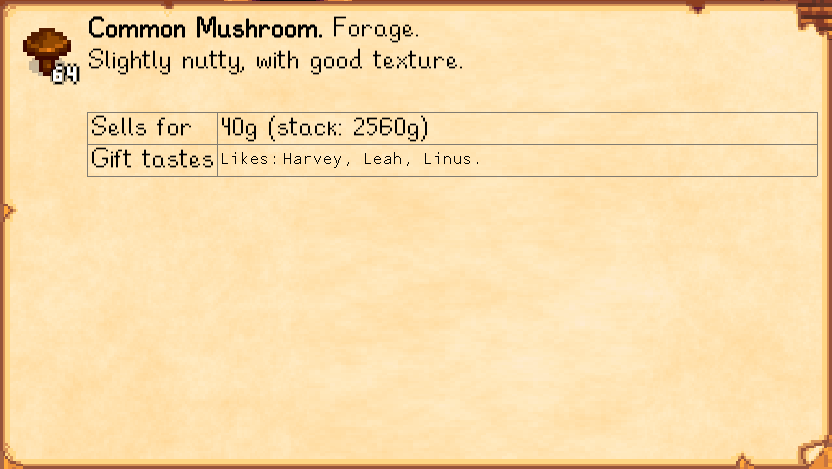
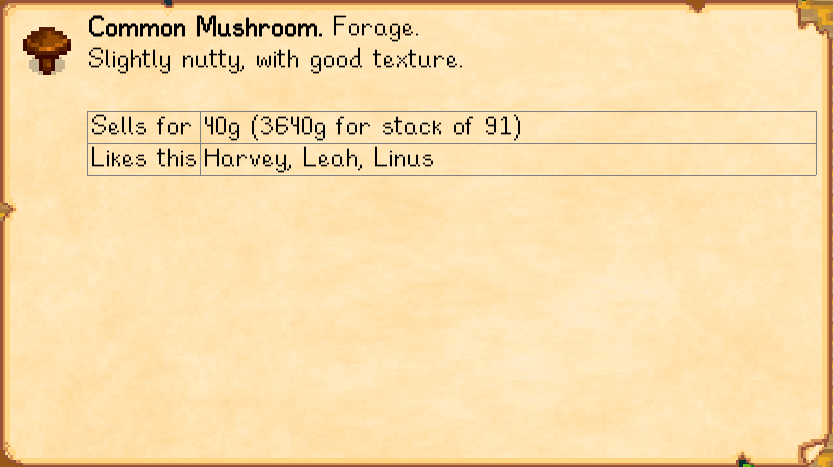
simplify gift taste fields, add NPC liked gifts

Changed region(s): [[0.0, 0.0, 1.0, 1.0], [0.0, 0.4197, 0.0312, 0.4797]]

diff --git a/LookupAnything/Framework/Fields/CharacterGiftTastesField.cs b/LookupAnything/Framework/Fields/CharacterGiftTastesField.cs
@@ -1,8 +1,5 @@
 using System.Collections.Generic;
 using System.Linq;
-using Microsoft.Xna.Framework;
-using Microsoft.Xna.Framework.Graphics;
-using Pathoschild.LookupAnything.Components;
 using Pathoschild.LookupAnything.Framework.Constants;
 using StardewValley;
 
@@ -12,43 +9,29 @@ namespace Pathoschild.LookupAnything.Framework.Fields
     public class CharacterGiftTastesField : GenericField
     {
         /*********
-        ** Properties
-        *********/
-        /// <summary>The items by how much this NPC likes receiving them.</summary>
-        private readonly IDictionary<GiftTaste, Item[]> GiftTastes;
-
-
-        /*********
         ** Public methods
         *********/
         /// <summary>Construct an instance.</summary>
         /// <param name="label">A short field label.</param>
         /// <param name="giftTastes">The items by how much this NPC likes receiving them.</param>
-        public CharacterGiftTastesField(string label, IDictionary<GiftTaste, Item[]> giftTastes)
-            : base(label, null, hasValue: giftTastes.ContainsKey(GiftTaste.Love) || giftTastes.ContainsKey(GiftTaste.Like))
+        /// <param name="showTaste">The gift taste to show.</param>
+        public CharacterGiftTastesField(string label, IDictionary<GiftTaste, Item[]> giftTastes, GiftTaste showTaste)
+            : base(label, CharacterGiftTastesField.GetText(giftTastes, showTaste)) { }
+
+
+        /*********
+        ** Private methods
+        *********/
+        /// <summary>Get the text to display.</summary>
+        /// <param name="giftTastes">The items by how much this NPC likes receiving them.</param>
+        /// <param name="showTaste">The gift taste to show.</param>
+        private static string GetText(IDictionary<GiftTaste, Item[]> giftTastes, GiftTaste showTaste)
         {
-            this.GiftTastes = giftTastes;
-        }
+            if (!giftTastes.ContainsKey(showTaste))
+                return null;
 
-        /// <summary>Draw the value (or return <c>null</c> to render the <see cref="GenericField.Value"/> using the default format).</summary>
-        /// <param name="sprites">The sprite batch in which to draw.</param>
-        /// <param name="font">The recommended font.</param>
-        /// <param name="position">The position at which to draw.</param>
-        /// <param name="wrapWidth">The maximum width before which content should be wrapped..</param>
-        /// <returns>Returns the drawn dimensions, or <c>null</c> to draw the <see cref="GenericField.Value"/> using the default format.</returns>
-        public override Vector2? DrawValue(SpriteBatch sprites, SpriteFont font, Vector2 position, float wrapWidth)
-        {
-            float topOffset = 0;
-
-            // loved gifts
-            if (this.GiftTastes.ContainsKey(GiftTaste.Love))
-            {
-                string[] names = this.GiftTastes[GiftTaste.Love].Select(p => p.Name).OrderBy(p => p).ToArray();
-                Vector2 labelSize = sprites.DrawStringBlock(font, string.Join(", ", names), new Vector2(position.X, position.Y + topOffset), wrapWidth);
-                topOffset += labelSize.Y;
-            }
-
-            return new Vector2(wrapWidth, topOffset);
+            string[] names = giftTastes[showTaste].Select(p => p.Name).OrderBy(p => p).ToArray();
+            return string.Join(", ", names);
         }
     }
 }

diff --git a/LookupAnything/Framework/Fields/ItemGiftTastesField.cs b/LookupAnything/Framework/Fields/ItemGiftTastesField.cs
@@ -1,0 +1,36 @@
+using System.Collections.Generic;
+using System.Linq;
+using Pathoschild.LookupAnything.Framework.Constants;
+
+namespace Pathoschild.LookupAnything.Framework.Fields
+{
+    /// <summary>A metadata field which shows how much each NPC likes receiving this item.</summary>
+    public class ItemGiftTastesField : GenericField
+    {
+        /*********
+        ** Public methods
+        *********/
+        /// <summary>Construct an instance.</summary>
+        /// <param name="label">A short field label.</param>
+        /// <param name="giftTastes">NPCs by how much they like receiving this item.</param>
+        /// <param name="showTaste">The gift taste to show.</param>
+        public ItemGiftTastesField(string label, IDictionary<GiftTaste, string[]> giftTastes, GiftTaste showTaste)
+            : base(label, ItemGiftTastesField.GetText(giftTastes, showTaste)) { }
+
+
+        /*********
+        ** Private methods
+        *********/
+        /// <summary>Get the text to display.</summary>
+        /// <param name="giftTastes">NPCs by how much they like receiving this item.</param>
+        /// <param name="showTaste">The gift taste to show.</param>
+        private static string GetText(IDictionary<GiftTaste, string[]> giftTastes, GiftTaste showTaste)
+        {
+            if (!giftTastes.ContainsKey(showTaste))
+                return null;
+
+            string[] names = giftTastes[showTaste].OrderBy(p => p).ToArray();
+            return string.Join(", ", names);
+        }
+    }
+}

diff --git a/LookupAnything/Framework/Subjects/CharacterSubject.cs b/LookupAnything/Framework/Subjects/CharacterSubject.cs
@@ -41,14 +41,16 @@ namespace Pathoschild.LookupAnything.Framework.Subjects
             {
                 case TargetType.Villager:
                     this.Type = "Villager";
+                    var giftTastes = this.GetGiftTastes(npc);
                     this.AddCustomFields(
                         new GenericField("Birthday", $"{Utility.capitalizeFirstLetter(npc.birthday_Season)} {npc.birthday_Day}"),
                         new GenericField("Can romance", npc.datable),
-                        new CharacterGiftTastesField("Best gifts", this.GetGiftTastes(npc)),
                         new CharacterFriendshipField("Friendship", Game1.player.friendships[npc.name][0], NPC.friendshipPointsPerHeartLevel, NPC.maxFriendshipPoints),
                         new GenericField("Talked today", Game1.player.friendships[npc.name][2] == 1),
                         new GenericField("Gifted today", Game1.player.friendships[npc.name][3] > 0),
-                        new GenericField("Gifted this week", $"{Game1.player.friendships[npc.name][1]} of {NPC.maxGiftsPerWeek}")
+                        new GenericField("Gifted this week", $"{Game1.player.friendships[npc.name][1]} of {NPC.maxGiftsPerWeek}"),
+                        new CharacterGiftTastesField("Loves gifts", giftTastes, GiftTaste.Love),
+                        new CharacterGiftTastesField("Likes gifts", giftTastes, GiftTaste.Like)
                     );
                     break;
 

diff --git a/LookupAnything/Framework/Subjects/ItemSubject.cs b/LookupAnything/Framework/Subjects/ItemSubject.cs
@@ -57,9 +57,11 @@ namespace Pathoschild.LookupAnything.Framework.Subjects
             // item
             if (showInventoryFields)
             {
+                var giftTastes = this.GetGiftTastes(item);
                 this.AddCustomFields(
                     new SaleValueField("Sells for", this.GetSaleValue(item, knownQuality), item.Stack),
-                    new GiftTastesForItemField("Gift tastes", this.GetGiftTastes(item), GiftTaste.Love, GiftTaste.Like)
+                    new ItemGiftTastesField("Loves this", giftTastes, GiftTaste.Love),
+                    new ItemGiftTastesField("Likes this", giftTastes, GiftTaste.Like)
                 );
             }
 
